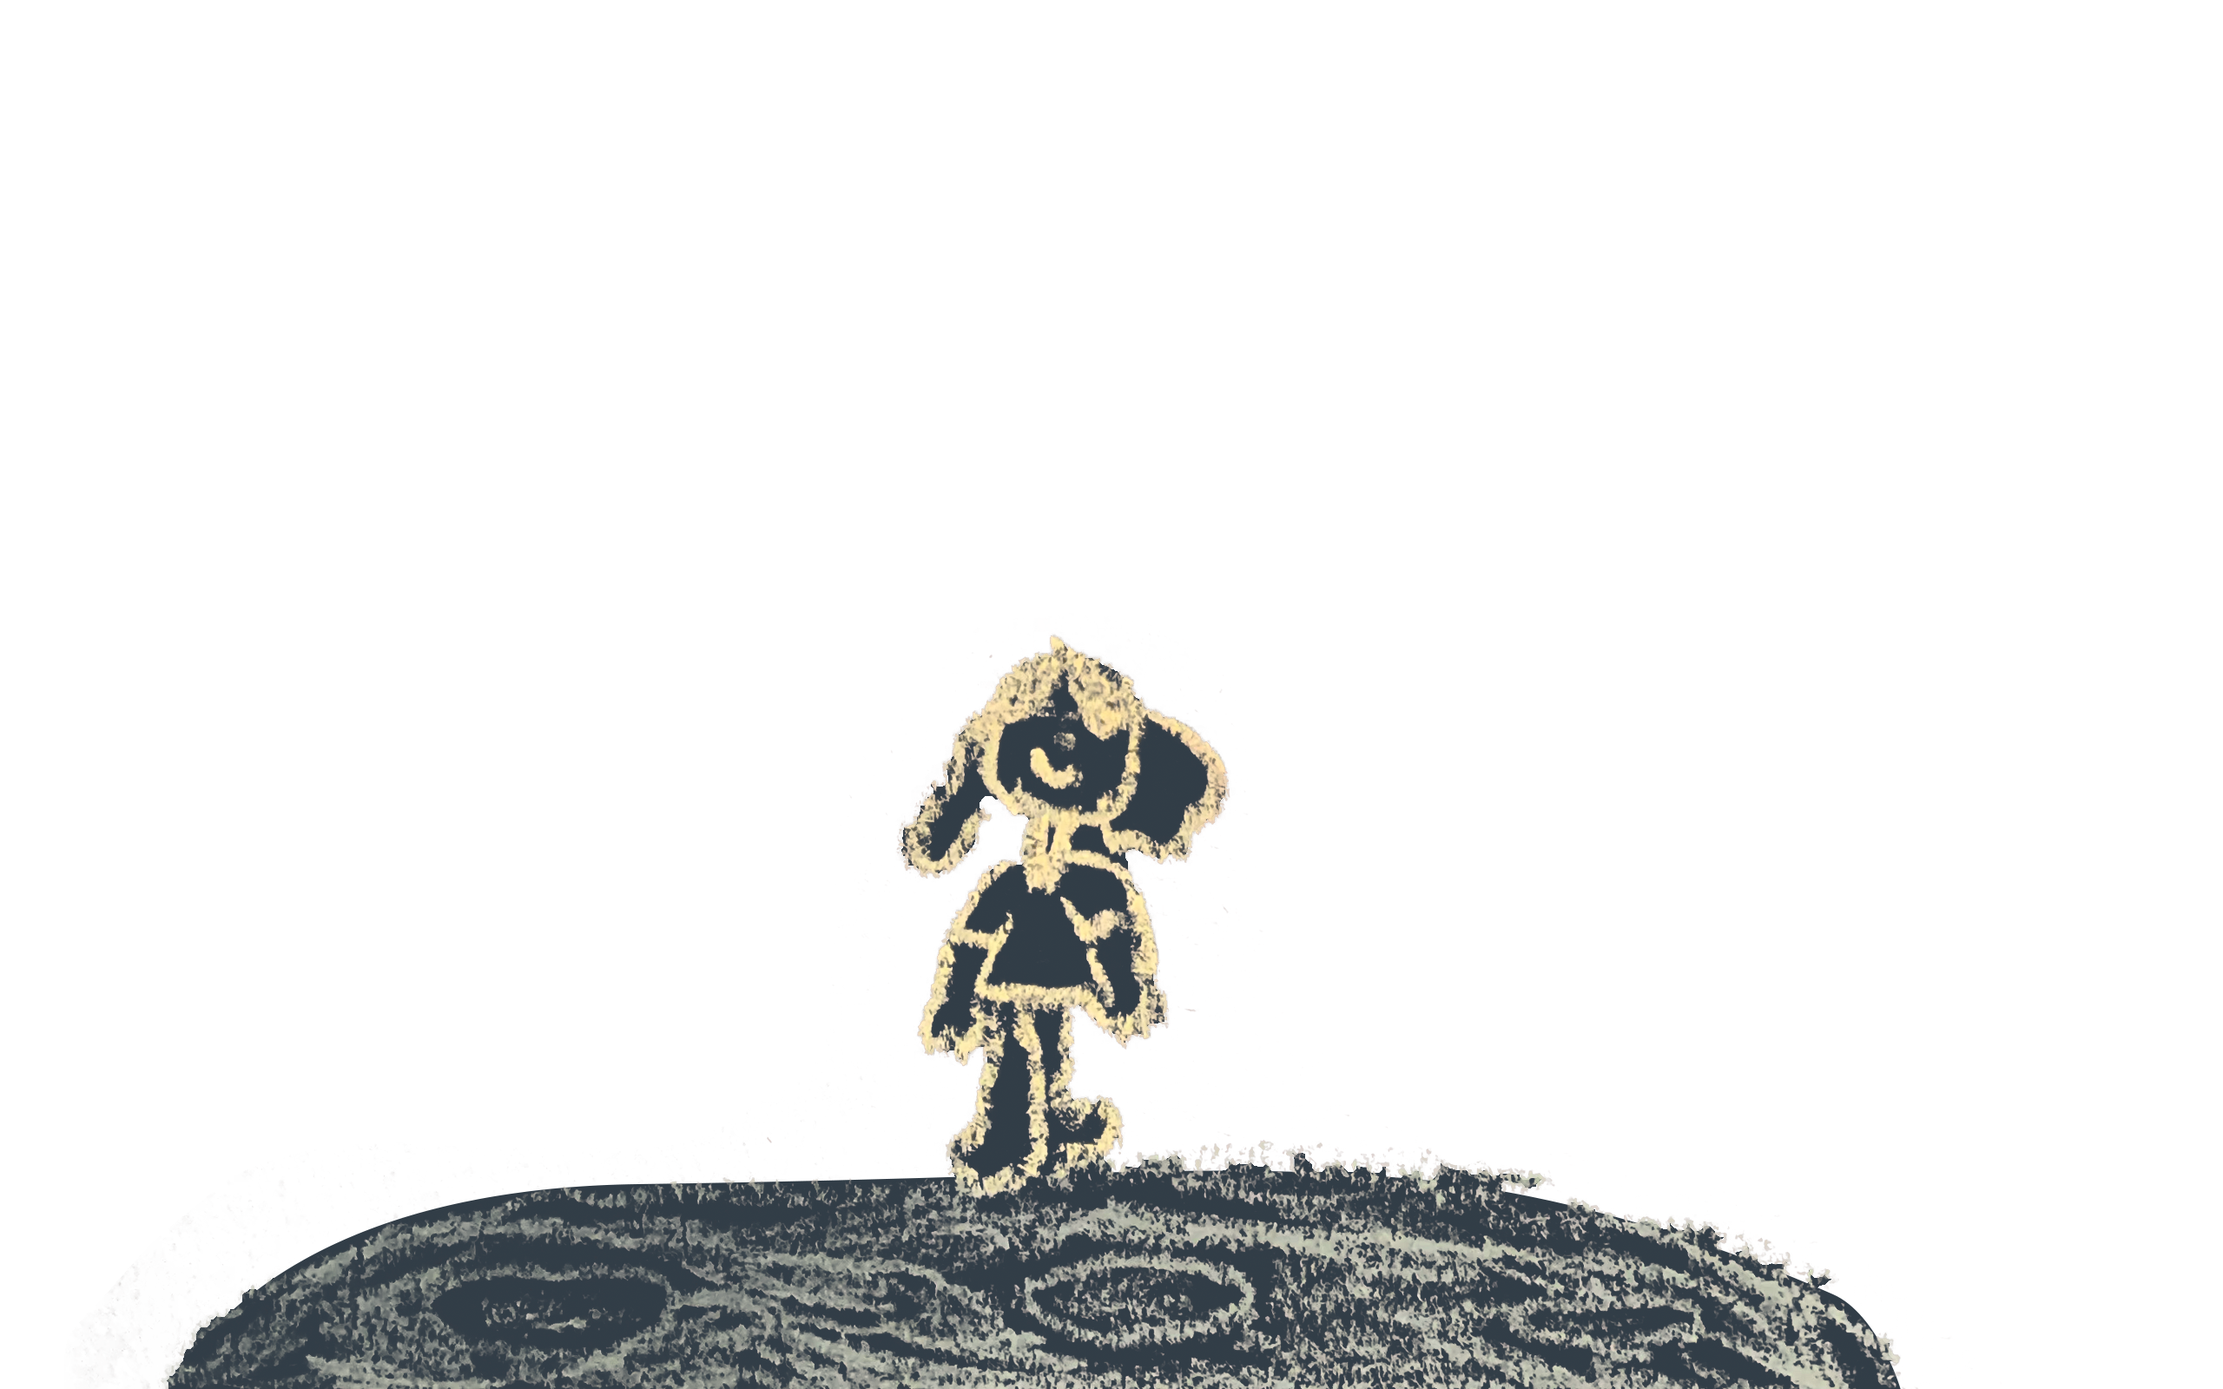
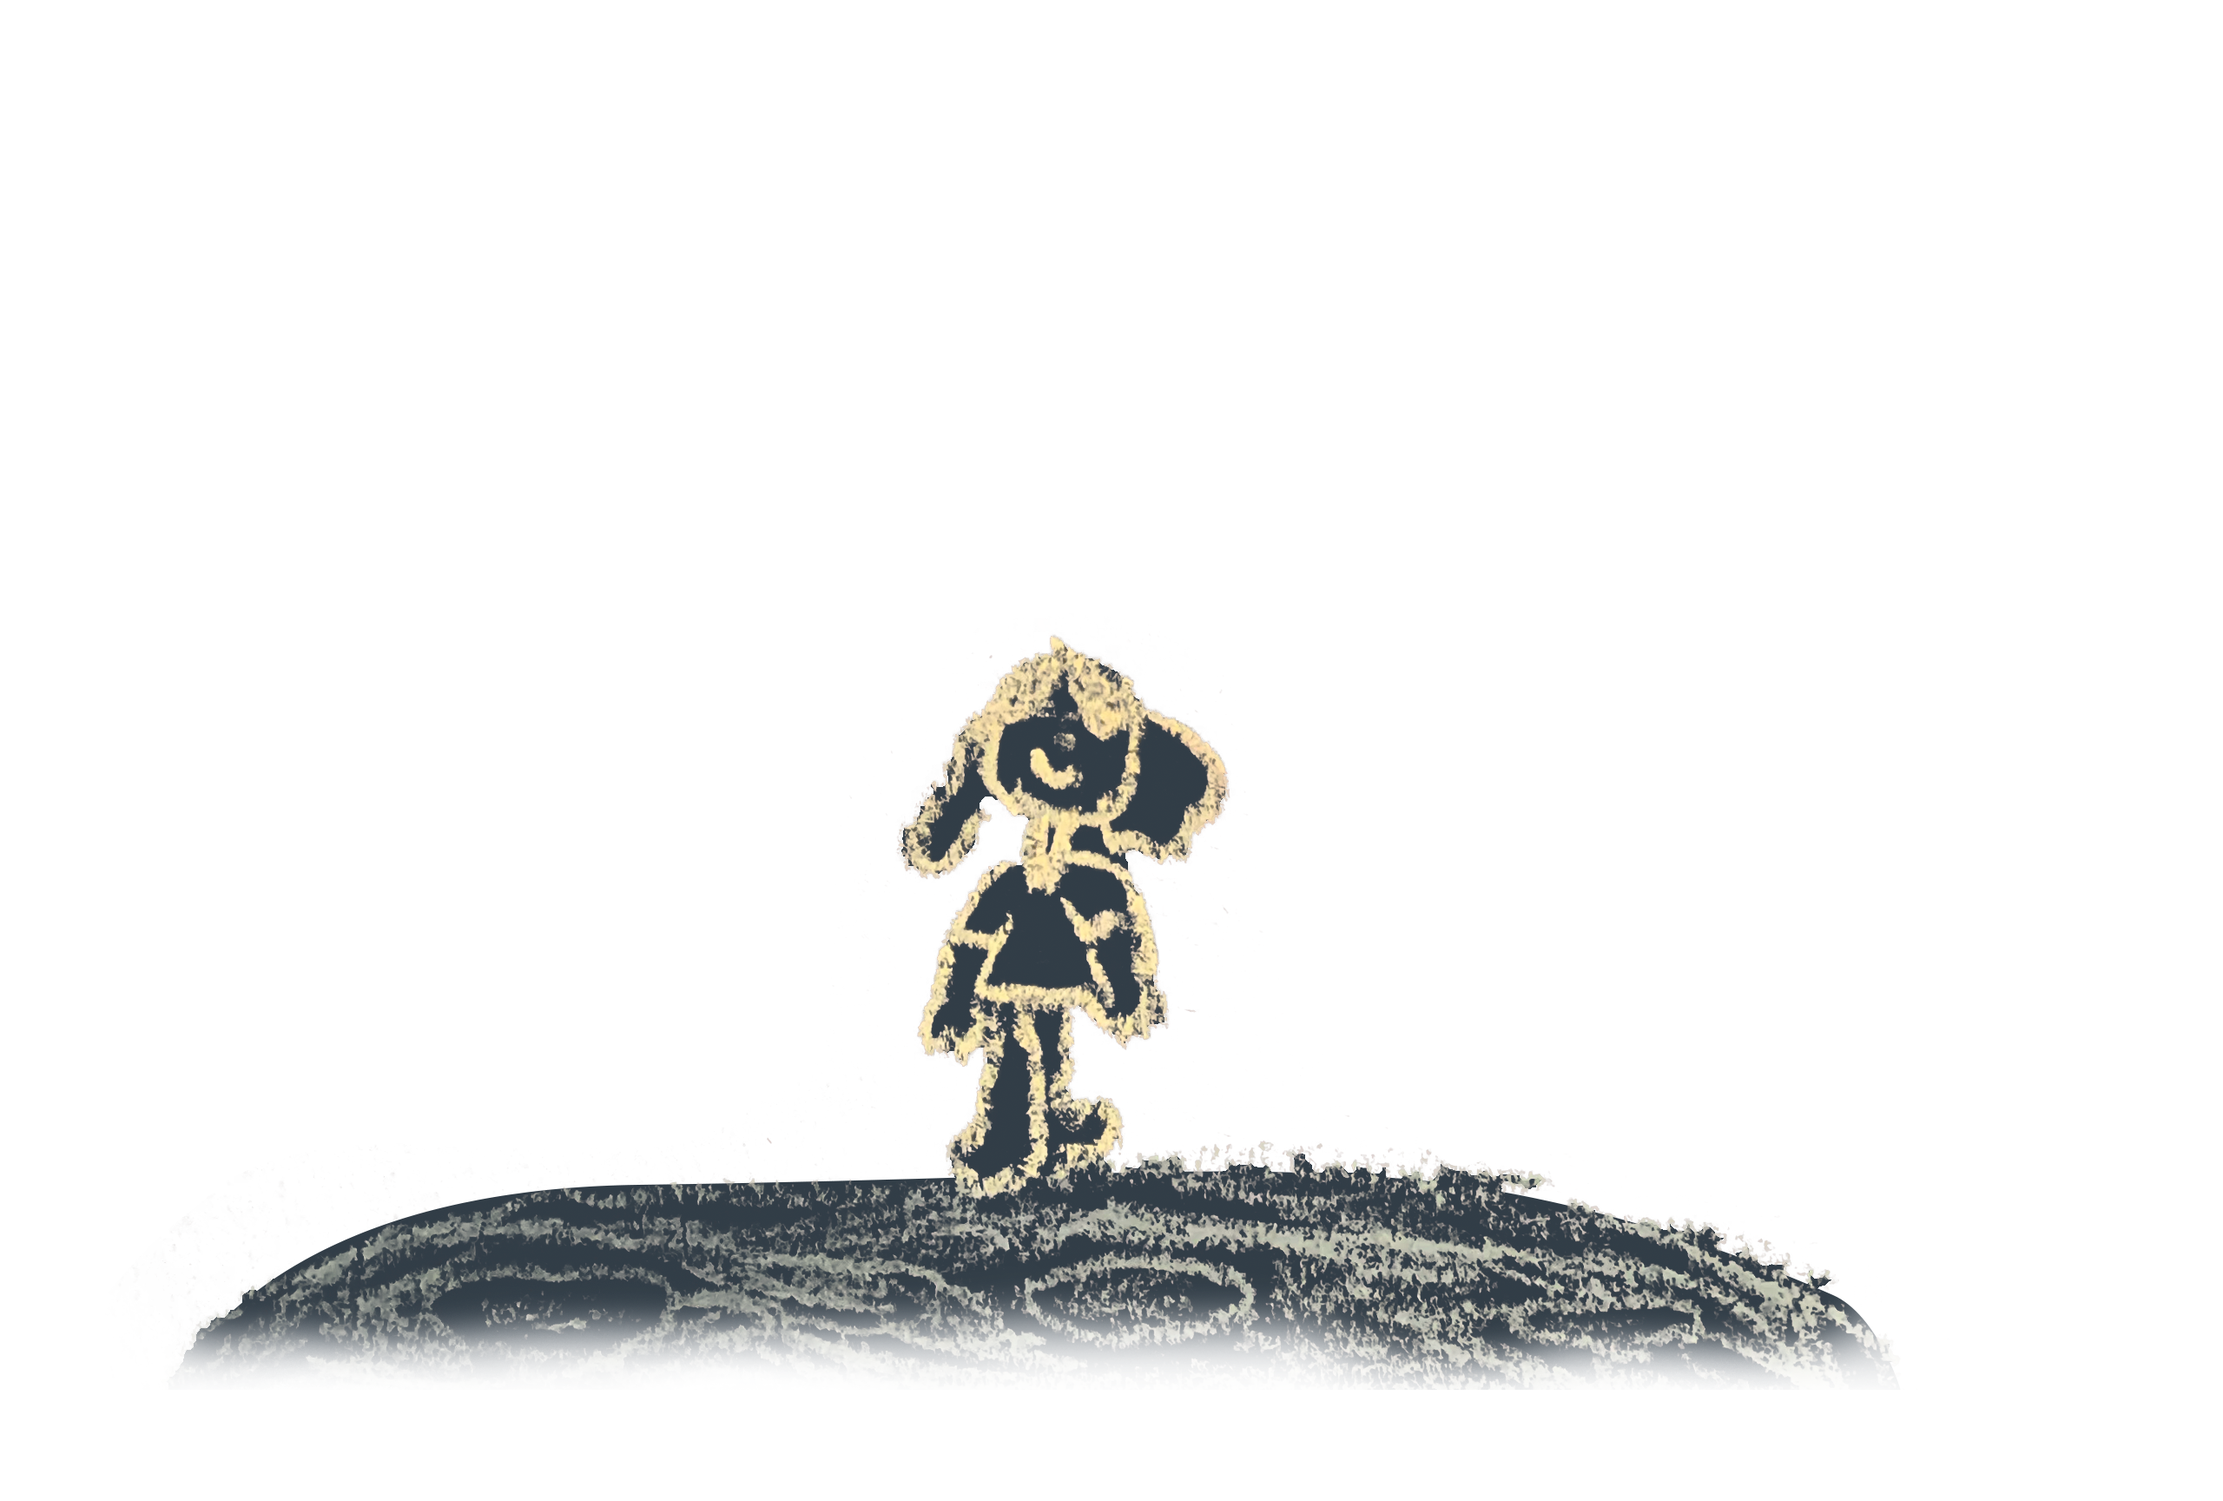
Updated parralax

Changed region(s): [[0.0625, 0.4062, 0.875, 1.0]]

diff --git a/index.html b/index.html
@@ -3,7 +3,7 @@
 
 <head>
   <meta charset="UTF-8">
-  <title>Firewatch Parallax in CSS</title>
+  <title>Luna: The Girl in The Moon</title>
 
   <!-- Bootstrap CSS -->
       <link rel="stylesheet" href="https://stackpath.bootstrapcdn.com/bootstrap/4.3.1/css/bootstrap.min.css" integrity="sha384-ggOyR0iXCbMQv3Xipma34MD+dH/1fQ784/j6cY/iJTQUOhcWr7x9JvoRxT2MZw1T" crossorigin="anonymous">
@@ -23,14 +23,14 @@
 </head>
 
 <body>
-  <main role="main" class="container">
 
-  <div class="parallax">
+
+  <div class="parallax"class="container">
     <div class="title">
         <img src="images/Title1.png" class="img-fluid" alt=""/>
     </div>
     <div class="parallax__layer parallax__layer__1">
-        <img src="images/Stars2.png" class="img-fluid" alt="" />
+        <img src="images/Stars2.png" class="img-fluid"  class="fade" alt="" />
     </div>
     <div class="parallax__layer parallax__layer__2">
         <img src="images/Earth3.png" class="img-fluid" alt=""/>
@@ -47,51 +47,95 @@
     <!-- <div class="parallax__layer parallax__layer__6">
         <img src="https://sam.beckham.io/images/articles/firewatch/layer_6.png" />
     </div> -->
+
     <div class="parallax__cover">
-      <div class="story">
-        <h2>Once upon a time there was a girl named Luna. <br>She really loved the Moon.</h2>
+      <!-- <div class="story>
+          <h2>Once upon a time there was a girl named Luna. <br>She really loved the Moon.</h2>
 
-        <p>One day her aunt asked her if she wanted to come to the space center because she worked there. So she said yes. They were working on a space trip to the Moon. She was really excited to see the rocket.</p>
+          <p>One day her aunt asked her if she wanted to come to the space center because she worked there. So she said yes. They were working on a space trip to the Moon. She was really excited to see the rocket.</p>
 
-        <img src="images/rocket.png" class="img-fluid" alt="" />
+          <img src="images/rocket.png" class="img-fluid" alt="" />
 
-        <p>When she got there she saw the rocket. She was amazed. She wanted to go in the rocket. Her aunt said no but, she went anyway. She went up the staircase. She went into the rocket. Her aunt went after her, but she was too fast. Her aunt yelled, “Luna, Stop!” but Luna would not stop. When her aunt caught up to her she was in the rocket.</p>
+          <p>When she got there she saw the rocket. She was amazed. She wanted to go in the rocket. Her aunt said no but, she went anyway. She went up the staircase. She went into the rocket. Her aunt went after her, but she was too fast. Her aunt yelled, “Luna, Stop!” but Luna would not stop. When her aunt caught up to her she was in the rocket.</p>
 
-        <img src="images/space.png" class="img-fluid" alt="" />
+          <img src="images/space.png" class="img-fluid" alt="" />
 
-        <p>The aunt got in the rocket and said, “Luna, get out this instant!” but Luna said “No!” Luna accidentally pressed the launch button and the aunt said, “now we go to the Moon!” The aunt said, “okay put your space suit on.” “Okay,” said Luna and it counted down. </p>
+          <p>The aunt got in the rocket and said, “Luna, get out this instant!” but Luna said “No!” Luna accidentally pressed the launch button and the aunt said, “now we go to the Moon!” The aunt said, “okay put your space suit on.” “Okay,” said Luna and it counted down. </p>
 
-        <h2>5-4-3-2-1 Blast off!</h2>
+          <h2>5-4-3-2-1 Blast off!</h2>
 
-        <img src="images/blackhole.png" class="img-fluid" alt="" />
+          <img src="images/blackhole.png" class="img-fluid" alt="" />
 
-        <p>They went into space. Luna said, “where are we going? We are going, we are going to the Moon!” “What are we doing on the Moon?” asked Luna. “We are exploring the Moon for living life on it” said her aunt. Luna said, “Fun! I love it. It will be fun. I love the Moon!” Said Luna.</p>
+          <p>They went into space. Luna said, “where are we going? We are going, we are going to the Moon!” “What are we doing on the Moon?” asked Luna. “We are exploring the Moon for living life on it” said her aunt. Luna said, “Fun! I love it. It will be fun. I love the Moon!” Said Luna.</p>
 
-        <p>Luna saw many cool things. She saw a black hole. She said she loved it so much. She even made up a song about the Moon. <em>“I love the Moon so much!”</em></p>
+          <p>Luna saw many cool things. She saw a black hole. She said she loved it so much. She even made up a song about the Moon. <em>“I love the Moon so much!”</em></p>
 
-        <img src="images/space.png" class="img-fluid" alt="" />
+          <img src="images/space.png" class="img-fluid" alt="" />
 
-        <p>She was almost at the Moon. Her aunt said, “you can go on the Moon for 10 minutes.” They landed on the Moon! They got off the rocket and went down to the Moon. They explored for 5 minutes. Then Luna saw something green moving around. She looked at it and it moved. It was an alien!</p>
+          <p>She was almost at the Moon. Her aunt said, “you can go on the Moon for 10 minutes.” They landed on the Moon! They got off the rocket and went down to the Moon. They explored for 5 minutes. Then Luna saw something green moving around. She looked at it and it moved. It was an alien!</p>
 
-        <p>The Alien was very nice. They got along very well. They made friends. They saw something, it looked like an asteroid. She needed something to stop it. The alien forgot to show her something. It was his secret lair. </p>
+          <p>The Alien was very nice. They got along very well. They made friends. They saw something, it looked like an asteroid. She needed something to stop it. The alien forgot to show her something. It was his secret lair. </p>
 
-        <img src="images/alien.png" class="img-fluid" alt="" />
+          <img src="images/alien.png" class="img-fluid" alt="" />
 
-        <p>They went to the secret lair. The aunt said, “Whoa!” It was so cool. She loved it so much. They looked around for something to stop the meteor. They found a really big net. They got it all ready. It was almost time for the meteor to hit Earth. They needed to get ready. Because if they save the Earth they needed a plan. So they were going to fly in the rocket ship then she would cover up the meteor. Then go back to earth. So the time had come to save Earth. </p>
+          <p>They went to the secret lair. The aunt said, “Whoa!” It was so cool. She loved it so much. They looked around for something to stop the meteor. They found a really big net. They got it all ready. It was almost time for the meteor to hit Earth. They needed to get ready. Because if they save the Earth they needed a plan. So they were going to fly in the rocket ship then she would cover up the meteor. Then go back to earth. So the time had come to save Earth. </p>
 
-        <p>So they went in the rocketship and everyone was cheering for Luna. The meteor was almost to Earth. 5 minutes later they caught it. </p>
+          <p>So they went in the rocketship and everyone was cheering for Luna. The meteor was almost to Earth. 5 minutes later they caught it. </p>
 
-        <img src="images/net.png" class="img-fluid" alt="" />
+          <img src="images/net.png" class="img-fluid" alt="" />
 
-        <p>They spent a little time in the aliens lair. The alien said, “Please do not tell everyone I was real.” Luna did not. They went back to earth and everyone called her the girl in the moon. </p>
+          <p>They spent a little time in the aliens lair. The alien said, “Please do not tell everyone I was real.” Luna did not. They went back to earth and everyone called her the girl in the moon. </p>
 
-        <p>20 years later she worked at Nasa Space Center. She got asked to go on a real mission to Mars. She went to Mars two months after that. She had two kids Rose and Solar. They loved space too. Luna put up a picture and it had her on the moon. Her old friend the alien sent her funny photos of him every day. She wrote a book about it. It was called, LUNA, the girl in the moon.</p>
+          <p>20 years later she worked at Nasa Space Center. She got asked to go on a real mission to Mars. She went to Mars two months after that. She had two kids Rose and Solar. They loved space too. Luna put up a picture and it had her on the moon. Her old friend the alien sent her funny photos of him every day. She wrote a book about it. It was called, LUNA, the girl in the moon.</p>
 
-        <h2 id="theend">The End</h2>
-    </div>
+          <h2 id="theend">The End</h2>
+      </div> -->
   </div>
-</div>
 
+  <main role="main" class="container">
+
+
+  <div class="story">
+      <h2>Once upon a time there was a girl named Luna. <br>She really loved the Moon.</h2>
+
+      <p>One day her aunt asked her if she wanted to come to the space center because she worked there. So she said yes. They were working on a space trip to the Moon. She was really excited to see the rocket.</p>
+      <img src="images/rocket.png" class="img-fluid"alt="" />
+
+      <p>When she got there she saw the rocket. She was amazed. She wanted to go in the rocket. Her aunt said no but, she went anyway. She went up the staircase. She went into the rocket. Her aunt went after her, but she was too fast. Her aunt yelled, “Luna, Stop!” but Luna would not stop. When her aunt caught up to her she was in the rocket.</p>
+      <img src="images/space.png" class="img-fluid" alt="" />
+
+      <p>The aunt got in the rocket and said, “Luna, get out this instant!” but Luna said “No!” Luna accidentally pressed the launch button and the aunt said, “now we go to the Moon!” The aunt said, “okay put your space suit on.” “Okay,” said Luna and it counted down. </p>
+
+      <h2>5-4-3-2-1 Blast off!</h2>
+
+      <img src="images/blackhole.png" class="img-fluid" alt="" />
+
+      <p>They went into space. Luna said, “where are we going? We are going, we are going to the Moon!” “What are we doing on the Moon?” asked Luna. “We are exploring the Moon for living life on it” said her aunt. Luna said, “Fun! I love it. It will be fun. I love the Moon!” Said Luna.</p>
+
+      <p>Luna saw many cool things. She saw a black hole. She said she loved it so much. She even made up a song about the Moon. <em>“I love the Moon so much!”</em></p>
+
+      <img src="images/space.png" class="img-fluid" alt="" />
+
+      <p>She was almost at the Moon. Her aunt said, “you can go on the Moon for 10 minutes.” They landed on the Moon! They got off the rocket and went down to the Moon. They explored for 5 minutes. Then Luna saw something green moving around. She looked at it and it moved. It was an alien!</p>
+
+      <p>The Alien was very nice. They got along very well. They made friends. They saw something, it looked like an asteroid. She needed something to stop it. The alien forgot to show her something. It was his secret lair. </p>
+
+      <img src="images/alien.png" class="img-fluid" alt="" />
+
+      <p>They went to the secret lair. The aunt said, “Whoa!” It was so cool. She loved it so much. They looked around for something to stop the meteor. They found a really big net. They got it all ready. It was almost time for the meteor to hit Earth. They needed to get ready. Because if they save the Earth they needed a plan. So they were going to fly in the rocket ship then she would cover up the meteor. Then go back to earth. So the time had come to save Earth. </p>
+
+      <p>So they went in the rocketship and everyone was cheering for Luna. The meteor was almost to Earth. 5 minutes later they caught it. </p>
+
+      <img src="images/net.png" class="img-fluid" alt="" />
+
+      <p>They spent a little time in the aliens lair. The alien said, “Please do not tell everyone I was real.” Luna did not. They went back to earth and everyone called her the girl in the moon. </p>
+
+      <p>20 years later she worked at Nasa Space Center. She got asked to go on a real mission to Mars. She went to Mars two months after that. She had two kids Rose and Solar. They loved space too. Luna put up a picture and it had her on the moon. Her old friend the alien sent her funny photos of him every day. She wrote a book about it. It was called, LUNA, the girl in the moon.</p>
+
+      <h2 id="theend">The End</h2>
+  </div>
+
+</div>
 
   <!-- <script src='http://cdnjs.cloudflare.com/ajax/libs/jquery/2.1.3/jquery.min.js'></script> -->
 

diff --git a/css/style.css b/css/style.css
@@ -9,8 +9,9 @@ body {
 
 }
 
-
-
+.fade {
+  opacity: 1;
+}
 
 .starter-template {
   padding: 3rem 1.5rem;
@@ -46,6 +47,9 @@ p {
 
 .story  {
 z-index: 1;
+padding-top: 200px;
+background: rgb(52,61,70);
+background: linear-gradient(0deg, rgba(52,61,70,1) 86%, rgba(52,61,70,0.8449754901960784) 91%, rgba(52,61,70,0.7161239495798319) 94%, rgba(52,61,70,0.3435749299719888) 97%, rgba(52,61,70,0) 100%);
 }
 
 
@@ -62,17 +66,16 @@ z-index: 1;
   height: 100vh;
   overflow-x: hidden;
   overflow-y: auto;
-  /* position: absolute; */
+  position: absolute;
   top: 0;
   left: 0;
   right: 0;
   bottom: 0;
   margin: 0 auto;
-  z-index: -100;
 }
 
 .parallax__layer {
-  position: absolute;
+  /* position: absolute; */
   top: 0;
   right: 0;
   bottom: 0;
@@ -85,15 +88,15 @@ z-index: 1;
 }
 
 .parallax__cover {
-  background: rgb(52,61,70);
-background: linear-gradient(0deg, rgba(52,61,70,1) 86%, rgba(52,61,70,0.8449754901960784) 91%, rgba(52,61,70,0.7161239495798319) 94%, rgba(52,61,70,0.3435749299719888) 97%, rgba(52,61,70,0) 100%);
+  /* background: rgb(52,61,70);
+background: linear-gradient(0deg, rgba(52,61,70,1) 86%, rgba(52,61,70,0.8449754901960784) 91%, rgba(52,61,70,0.7161239495798319) 94%, rgba(52,61,70,0.3435749299719888) 97%, rgba(52,61,70,0) 100%); */
   display: block;
   position: absolute;
   padding-top: 200px;
   top: 100%;
   left: 0;
   right: 0;
-  height: 3000px;
+  height: 100vh;
 }
 
 .parallax__layer__0 {
@@ -119,6 +122,7 @@ background: linear-gradient(0deg, rgba(52,61,70,1) 86%, rgba(52,61,70,0.84497549
 .parallax__layer__4 {
   -webkit-transform: translateZ(-100px) scale(2);
           transform: translateZ(-100px) scale(2);
+
 }
 
 .parallax__layer__5 {

diff --git a/Luna.js b/Luna.js
@@ -1,0 +1,14 @@
+
+$(window).scroll(function () {
+    var scrollTop = $(window).scrollTop();
+    var height = $(window).height();
+    $('.logo_container, .slogan').css({
+        'opacity': ((height - scrollTop) / height)
+    });
+});
+
+
+//
+// $(window).scroll(function(){
+//     $(".fade").css("opacity", 1 - $(window).scrollTop() / 250);
+//   });

diff --git a/Luna.css b/Luna.css
@@ -10,7 +10,9 @@ body {
 }
 
 
-
+.fade {
+  opacity: 1;
+}
 
 .starter-template {
   padding: 3rem 1.5rem;
